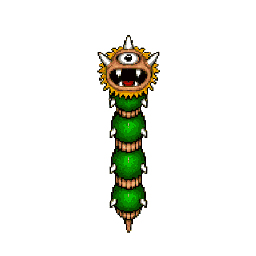
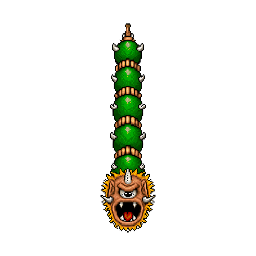
마디 사출에서 마디가 실제로 날아가게
이 패턴의 정체가 "마디 둘을 떼어 굴린다" 인데 바닥에 원 두 개만 그리고 말았다.
무엇이 떨어져 나갔는지 화면에 아무것도 안 남아, 보스는 가만히 있는데 바닥이
혼자 터지는 것으로 보였다.

FlightTargets 에 SegmentLaunch 추가. 착탄 원 하나마다 탄 하나가 보스에서
그 자리로 예고 시간 동안 날아간다.

참고 - 보스별로 화면에서 날아가는 것이 있는가
  크러셔      미사일(장식탄) · 파괴구(도는 쇠구슬) · 부채꼴 사격(실탄 9발)
  가디언      마디 사출 (이번에 추가) — 나머지 셋은 몸으로 하는 것이라 없다
  파이썬      없음 — 바닥 도형만
  킹핀       미사일 일제 · 부스터 강하
  로봇스네이크  천장 파편
  슬러지      없음 — 바닥 도형만

Changed region(s): [[0.375, 0.0938, 0.625, 0.9062]]

diff --git a/Assets/Scripts/Module/InGame/BattleDirector.Boss.cs b/Assets/Scripts/Module/InGame/BattleDirector.Boss.cs
@@ -775,6 +775,12 @@ namespace Game.Module.InGame
             switch (m.Draw)
             {
                 // 착탄 원 하나마다 탄 하나.
+                //
+                // ⚠ 「마디 사출」이 여기 있어야 한다. 이 패턴의 정체가
+                //   **"마디 둘을 떼어 굴린다"** 인데, 바닥에 원 두 개만 그리고
+                //   말면 무엇이 떨어져 나갔는지 화면에 아무것도 안 남는다 —
+                //   보스가 가만히 있는데 바닥이 혼자 터지는 것으로 보인다.
+                case BossDraw.SegmentLaunch:
                 case BossDraw.MissileSalvo:
                 case BossDraw.DebrisFall:
                 case BossDraw.BoosterDrop:
